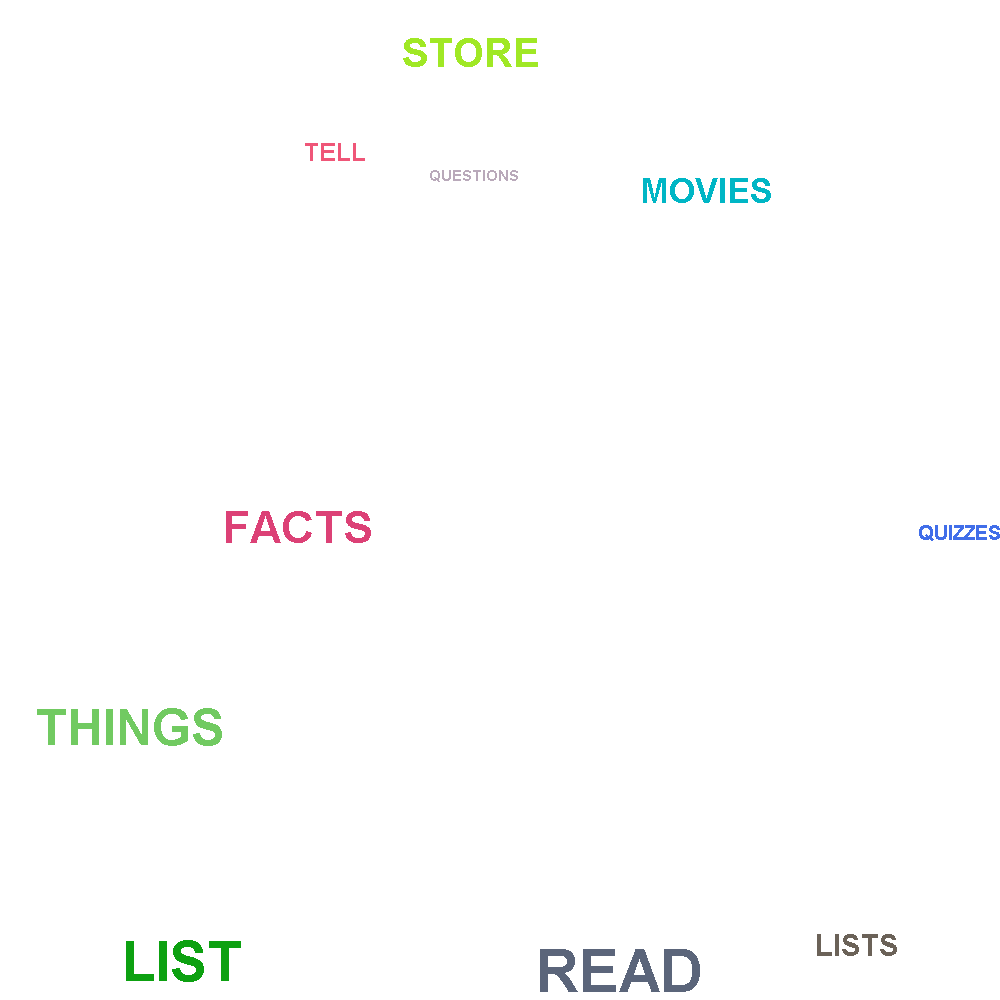
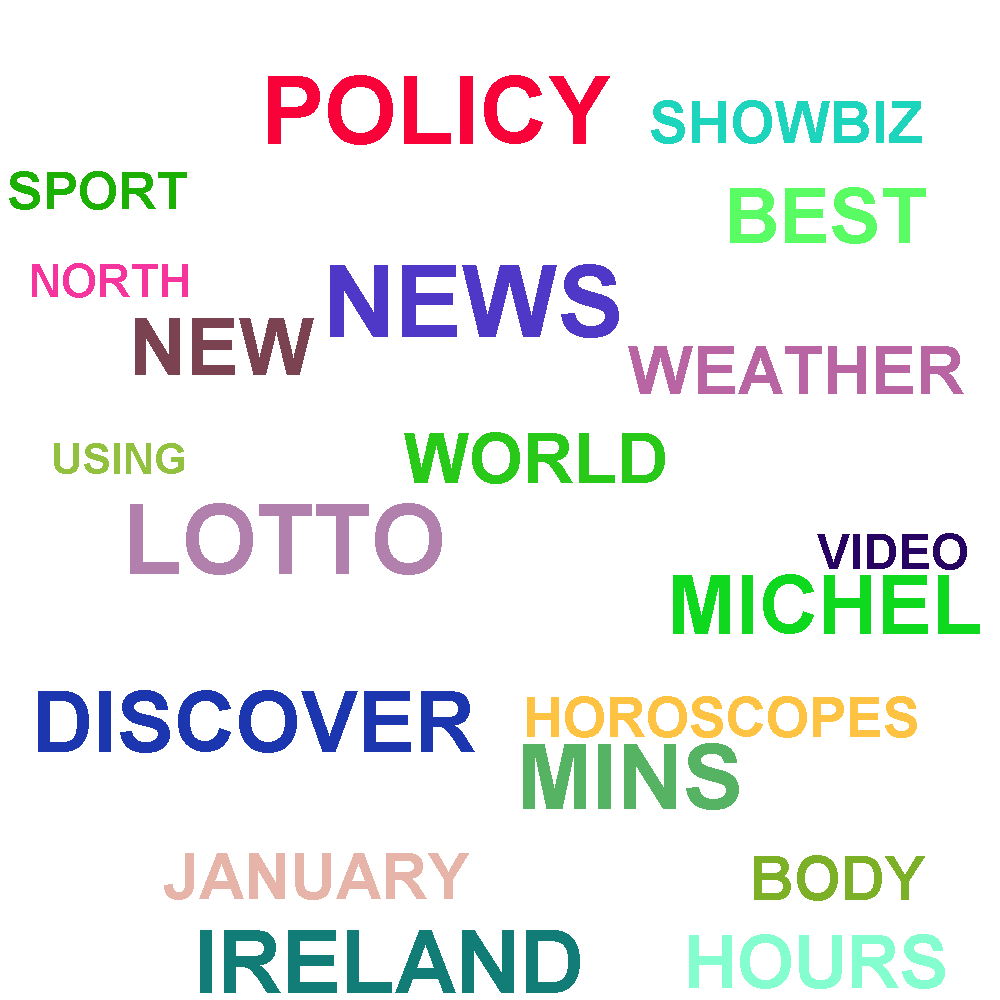
Basic wordcloud working with collision

diff --git a/src/ie/gmit/sw/ReallySimpleWordCloud.java b/src/ie/gmit/sw/ReallySimpleWordCloud.java
@@ -3,7 +3,8 @@ package ie.gmit.sw;
 import java.awt.Color;
 import java.awt.Font;
 import java.awt.Graphics;
-import java.awt.List;
+import java.awt.font.FontRenderContext;
+import java.awt.geom.AffineTransform;
 import java.awt.image.BufferedImage;
 import java.io.File;
 import java.io.IOException;
@@ -12,101 +13,97 @@ import java.util.Random;
 
 import javax.imageio.ImageIO;
 
-class Bounds
-{
-	private int x,y;
-	
-	public Bounds(Bounds bounds)
-	{
-		this.x = bounds.x;
-		this.y = bounds.y;
-	}
-	
-	public Bounds(int l,int w)
-	{
-		this.x = l;
-		this.y = w;
-	}
-	
-	public int getX()
-	{
-		return x;
-	}
-	
-	public int getY()
-	{
-		return y;
-	}	
-}
-
 public class ReallySimpleWordCloud 
 {		
 	private ArrayList<Bounds> boundsList;
 	private int ImageDimension = 1000;
-	private int fontSize = 60;
+	private int fontSize = 100;
 	
 	public ReallySimpleWordCloud(ArrayList words) throws IOException
 	{
 		BufferedImage image = new BufferedImage(ImageDimension, ImageDimension, BufferedImage.TYPE_4BYTE_ABGR);
 		Graphics graphics = image.getGraphics();
 		
+		AffineTransform affinetransform = new AffineTransform();     
+		FontRenderContext frc = new FontRenderContext(affinetransform,true,true); 
+				
 		boundsList = new ArrayList<Bounds>();
+		
+		//graphics.setColor(Color.black);
+		//graphics.fillRect(0, 0, ImageDimension, ImageDimension);
 		
 		///////////////////////////////////////////////////////////////
 		
 		int wordCount = 0;
 		
-		while(wordCount < 10)
+		System.out.println("\nGot here");
+		
+		while(wordCount < 20)
 		{
 			String currWord = (String) words.get(wordCount);
-			boolean outOfBounds = false;
 			Bounds currBounds = null;
-			
-			//while(!outOfBounds)
-			{
-				currBounds = new Bounds(getRandomPosition(ImageDimension,ImageDimension));
-				
-				//outOfBounds = CheckBounds(currBounds);
-			}
-			
-			System.out.println(currWord);			
-
+						
 			Font font = new Font(Font.SANS_SERIF, Font.BOLD, fontSize);
 			graphics.setColor(randomColor());
 			graphics.setFont(font);
-			graphics.drawString(currWord, currBounds.getX(), currBounds.getY());
-						
-			fontSize -= 5;
 			
+			int strWidth = (int)(font.getStringBounds(currWord, frc).getWidth());
+			int strHeight = (int)(font.getStringBounds(currWord, frc).getHeight());
+			
+			//System.out.println(strWidth + " : " + strHeight);
+			
+			currBounds = new Bounds(strWidth,strHeight,getRandomPosition(strWidth,strHeight,ImageDimension,ImageDimension));
+			
+			while(!CheckBounds(currBounds))
+			{
+				currBounds = new Bounds(strWidth,strHeight,getRandomPosition(strWidth,strHeight,ImageDimension,ImageDimension));
+			}
+			
+			//System.out.println(currBounds.getX() + " " + currBounds.getY() + " " + currBounds.getWidth() + " " + currBounds.getHeight());
+			
+			boundsList.add(currBounds);
+			
+			graphics.drawString(currWord, currBounds.getX(), currBounds.getY());				
+	
+			fontSize -= 3;
 			++wordCount;
 		}		
 		
 		graphics.dispose();
 		
 		ImageIO.write(image, "png", new File("image.png"));
+		
+		System.out.println("\nFinished");
 	}
 	
 	private boolean CheckBounds(Bounds checkMe)
-	{
-		boolean flag = false;
-		
+	{		
 		for(Bounds bound : boundsList)
-		{
-			
-						
+		{	
+			if(checkMe.getX() < bound.getX() + bound.getWidth() && checkMe.getX() + checkMe.getWidth() > bound.getX() && checkMe.getY() < bound.getY() + bound.getHeight() && checkMe.getHeight() + checkMe.getY() > bound.getY())
+			{
+				//System.out.println("Collision");
+				
+				return false; //collision
+			}			
 		}
 		
-		return flag;
+		return true;
 	}
 	
-	private Bounds getRandomPosition(int pagewidth,int pageheight)
+	private Bounds getRandomPosition(int wid,int hi,int pagewidth,int pageheight)
 	{
 		Random random = new Random();
 		
-		int randomWi = random.nextInt(pagewidth);
-		int randomHi = random.nextInt(pageheight);
+		int x = random.nextInt(pagewidth - wid);
+		int y = random.nextInt(pageheight);
+		
+		if(y < hi)
+		{
+			y += hi;
+		}
 						
-		return new Bounds(randomWi,randomHi);		
+		return new Bounds(wid,hi,x,y);		
 	}
 	
 	private Color randomColor()

diff --git a/src/ie/gmit/sw/Bounds.java b/src/ie/gmit/sw/Bounds.java
@@ -1,0 +1,48 @@
+package ie.gmit.sw;
+
+public class Bounds
+{
+	private int x,y,wid,hi;
+	
+	public Bounds(int w,int h,Bounds bounds)
+	{
+		this.wid = w;
+		this.hi = h;
+		this.x = bounds.x;
+		this.y = bounds.y;
+	}
+	
+	public Bounds(Bounds bounds)
+	{
+		this.x = bounds.x;
+		this.y = bounds.y;
+	}
+	
+	public Bounds(int w,int h,int x,int y)
+	{
+		this.wid = w;
+		this.hi = h;
+		this.x = x;
+		this.y = y;
+	}
+	
+	public int getX()
+	{
+		return this.x;
+	}
+	
+	public int getY()
+	{
+		return this.y;
+	}	
+	
+	public int getWidth()
+	{
+		return this.wid;
+	}
+	
+	public int getHeight()
+	{
+		return this.hi;
+	}
+}

diff --git a/src/ie/gmit/sw/UserUI.java b/src/ie/gmit/sw/UserUI.java
@@ -76,7 +76,7 @@ public class UserUI
 		txt_blackListFileUrl.setLocation(MIN_BUFF + LABELWI, MIN_BUFF + FIELD_HIGH);
 		jPanel.add(txt_blackListFileUrl);
 		
-		txt_wordCloudFileUrl = new TextField("http://mentalfloss.com/section/lists");
+		txt_wordCloudFileUrl = new TextField("http://www.breakingnews.ie/");
 		txt_wordCloudFileUrl.setPreferredSize(new Dimension(WI - (MIN_BUFF * BORDER) - LABELWI,FIELD_HIGH));
 		txt_wordCloudFileUrl.setSize(new Dimension(WI - (MIN_BUFF * BORDER) - LABELWI,FIELD_HIGH));
 		txt_wordCloudFileUrl.setLocation(MIN_BUFF + LABELWI, MIN_BUFF);

diff --git a/src/ie/gmit/sw/Worker.java b/src/ie/gmit/sw/Worker.java
@@ -30,11 +30,14 @@ public class Worker
 			e.printStackTrace();
 		}
 		
+		/*
 		System.out.println();
 		
 		for(String s : orderedWordList)
 		{
 			System.out.println(s + " " + map.get(s));
 		}
+		*/
+		
 	}	
 }
